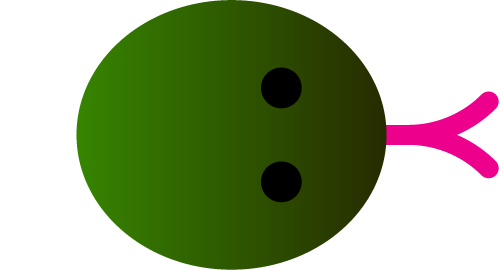
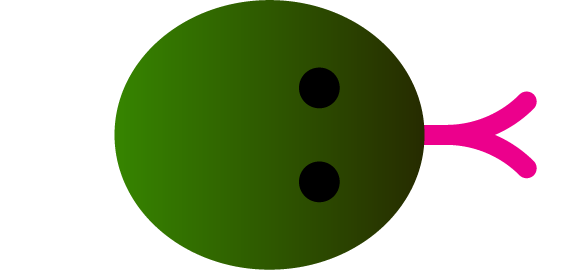
smake game push

diff --git a/script.js b/script.js
@@ -1,9 +1,9 @@
 let snake;
 let apples = [];
 
-let w = 16;
-let h = 10;
-let cell = 100;
+let w = 18;
+let h = 13;
+let cell = 60;
 let offsetX = 0;
 let offsetY = 0;
 let interval = 300;
@@ -16,9 +16,9 @@ let paperTex;
 let renderSide = false;
 let imgBody, imgHead, imgEat, imgFood;
 
-let scaleBody = 0.43;
-let scaleHead = 0.4;
-let scaleFood = 0.45;
+let scaleBody = 0.38;
+let scaleHead = 0.32;
+let scaleFood = 0.35;
 
 function preload() {
   paperTex = loadImage("img/paper.jpg");
@@ -31,6 +31,9 @@ function preload() {
 function setup() {
   createCanvas(window.innerWidth, window.innerHeight);
   // createCanvas(600, 300);
+
+  w = Math.floor(window.innerWidth / cell) - 1;
+  h = Math.floor(window.innerHeight / cell) - 1;
 
   offsetX = (width - w * cell) * 0.5;
   offsetY = (height - h * cell) * 0.5;
@@ -50,7 +53,7 @@ function draw() {
   image(bg, 0, 0);
 
   if (snake.play) {
-    snake.update(apples, interval, interval);
+    snake.update(apples, interval, rush);
   }
   apples.forEach((a) => {
     if (a.eaten) {
@@ -143,18 +146,22 @@ function keyReceived(keyIs) {
     switch (keyIs) {
       case '1':
       case 'a':
+      case 'ArrowLeft':
         snake.updateDir(2, interval);
         break;
       case '2':
       case 'b':
+      case 'ArrowRight':
         snake.updateDir(0, interval);
         break;
       case '3':
       case 'c':
+      case 'ArrowUp':
         snake.updateDir(3, interval);
         break;
       case '4':
       case 'd':
+      case 'ArrowDown':
         snake.updateDir(1, interval);
         break;
     }
@@ -162,18 +169,22 @@ function keyReceived(keyIs) {
     switch (keyIs) {
       case '1':
       case 'a':
+      case 'ArrowLeft':
         snake.updateDir(2, rush);
       break;
       case '2':
       case 'b':
+      case 'ArrowRight':
         snake.updateDir(0, rush);
       break;
       case '3':
       case 'c':
+      case 'ArrowUp':
         snake.updateDir(3, rush);
       break;
       case '4':
       case 'd':
+      case 'ArrowDown':
         snake.updateDir(1, rush);
       break;
     }
@@ -388,7 +399,8 @@ class Snake {
 
       push();
       imageMode(CENTER);
-      translate((bX + aX) * 0.5 * cell + _x, (bY + aY) * 0.5 * cell + _y);
+      // translate((bX + aX) * 0.5 * cell + _x, (bY + aY) * 0.5 * cell + _y);
+      translate(aX * cell + _x, aY * cell + _y);
 
       if (renderSide) {
         const dirX = bX - aX;
